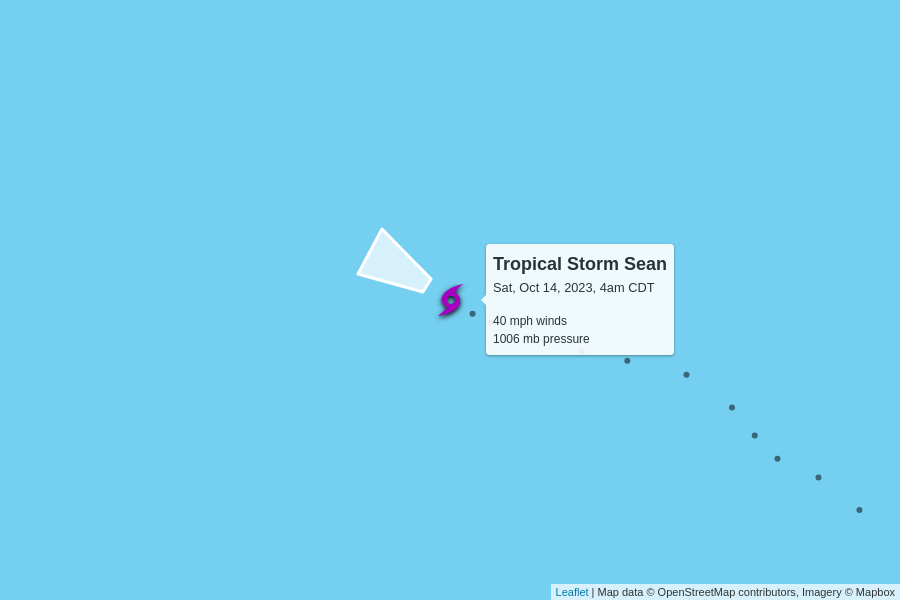
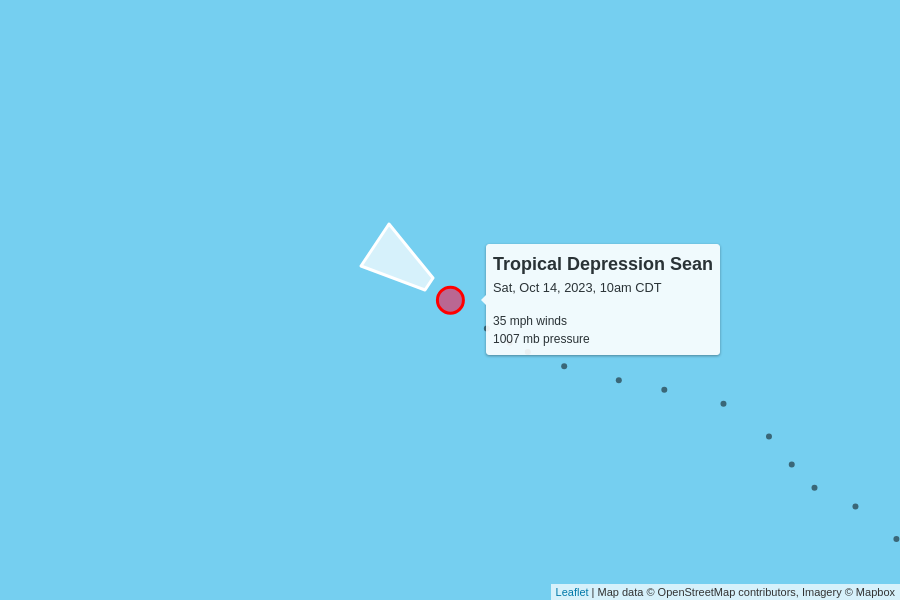
automatic update

diff --git a/docs/index.html b/docs/index.html
@@ -101,8 +101,8 @@
       <tr>
         <td colspan="6" class="storm category-0" >
           <h2>
-            Tropical Storm Sean
-            <p class="updated">last updated <span data-time>2023-10-14T09:00:00.000Z</span></p>
+            Tropical Depression Sean
+            <p class="updated">last updated <span data-time>2023-10-14T15:00:00.000Z</span></p>
           </h2>
         </td>
       </tr>
@@ -117,12 +117,12 @@
       </tr>
       <tr>
         <td class="spacer"></td>
-        <td>40 mph<br>0 mph since last update</td>
-        <td>1006 mb<br>0 mb since last update</td>
+        <td>35 mph<br>-5 mph since last update</td>
+        <td>1007 mb<br>+1 mb since last update</td>
         <td>
-          8 mph to the west-northwest
+          8 mph to the northwest
           <br/>
-          <span style="display: inline-block; font-size: 1.5em; transform: rotate(300deg);">↑</span>
+          <span style="display: inline-block; font-size: 1.5em; transform: rotate(305deg);">↑</span>
         </td>
         <td><a href="https://raw.githubusercontent.com/mgwalker/atlantic-hurricanes/main/data/csv/AL192023.csv">AL192023.csv</a></td>
         <td><a href="https://www.nhc.noaa.gov/archive/2023/SEAN.shtml?">NHC advisories</a></td>
